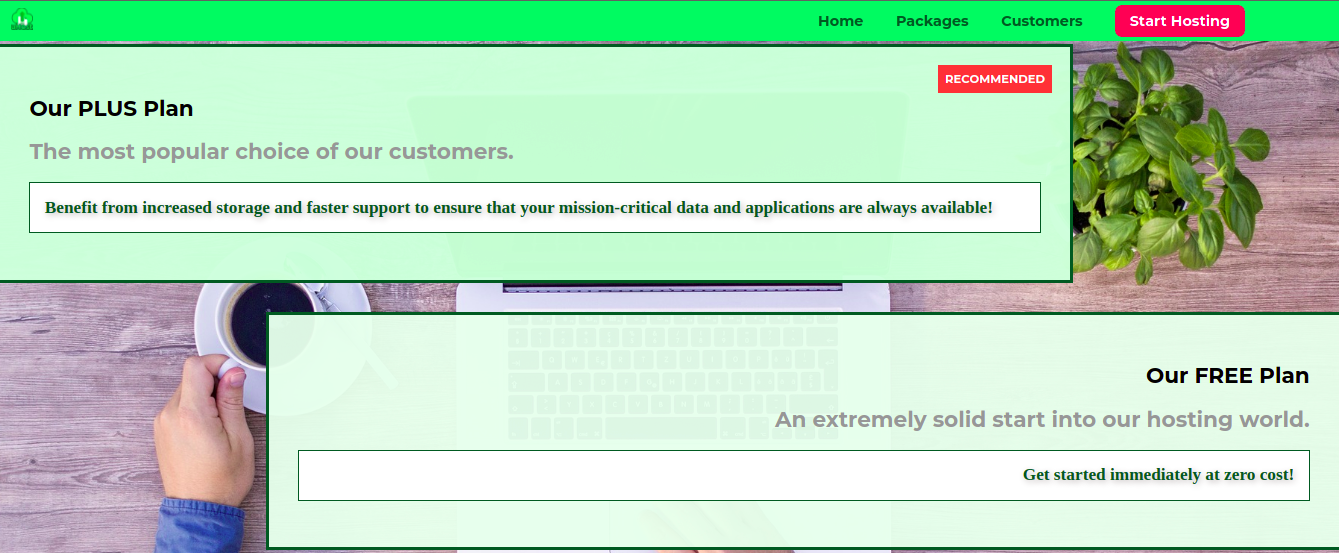
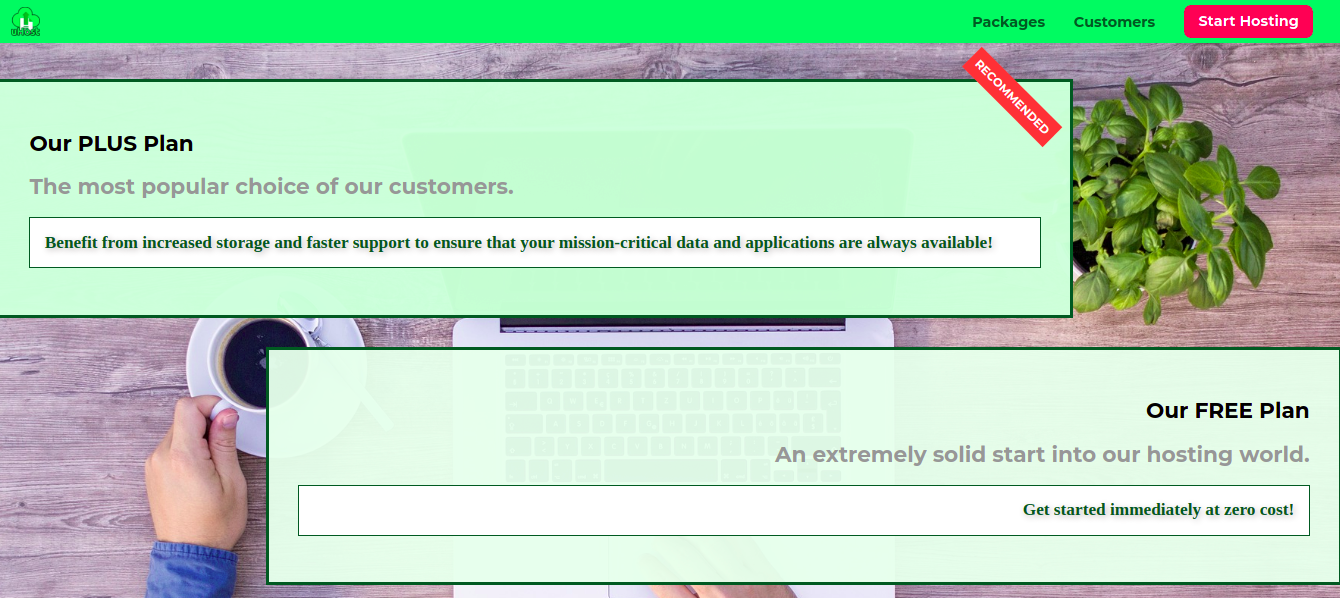
243. Rotating Elements and setting transform-origin

diff --git a/css/packages.css b/css/packages.css
@@ -25,6 +25,10 @@ main {
     z-index: -1;
 }
 
+.packages {
+    margin-top: 50px;
+}
+
 .package {
     width: 80%;
     margin: 1rem 0;
@@ -51,11 +55,13 @@ main {
     position: absolute;
     top: 0;
     right: 0;
-    margin: 1.2rem;
+    margin: 0;
     font-size: 0.8rem;
     color: white;
     background: #ff5454;
     padding: 0.5rem;
+    transform: rotateZ(45deg);
+    transform-origin: center;
 }
 
 .package__subtitle {
